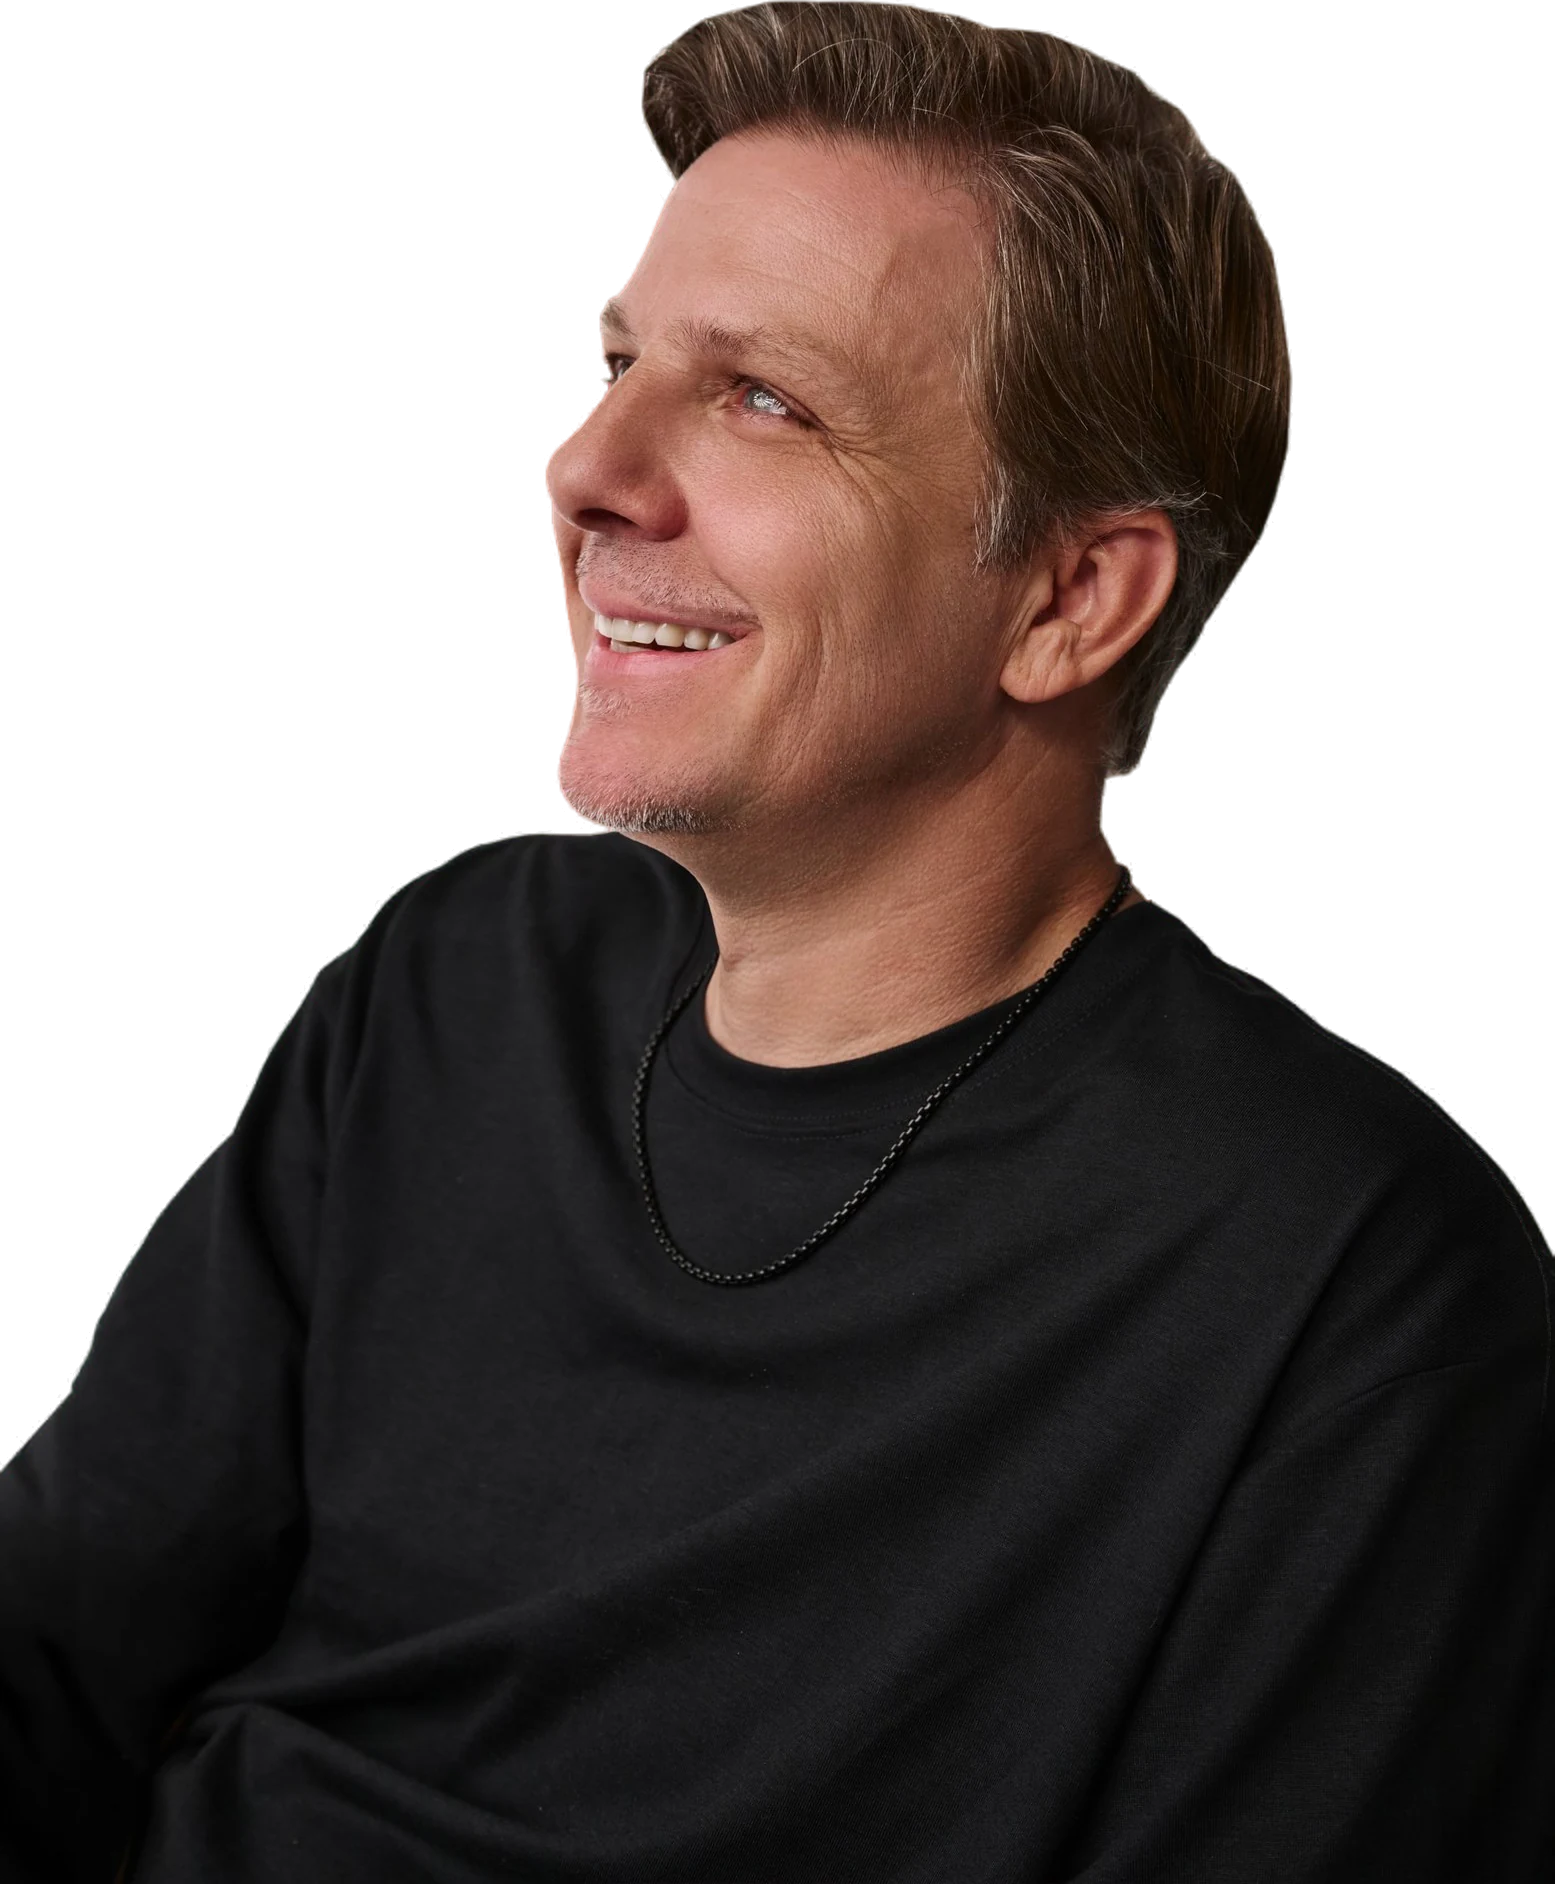
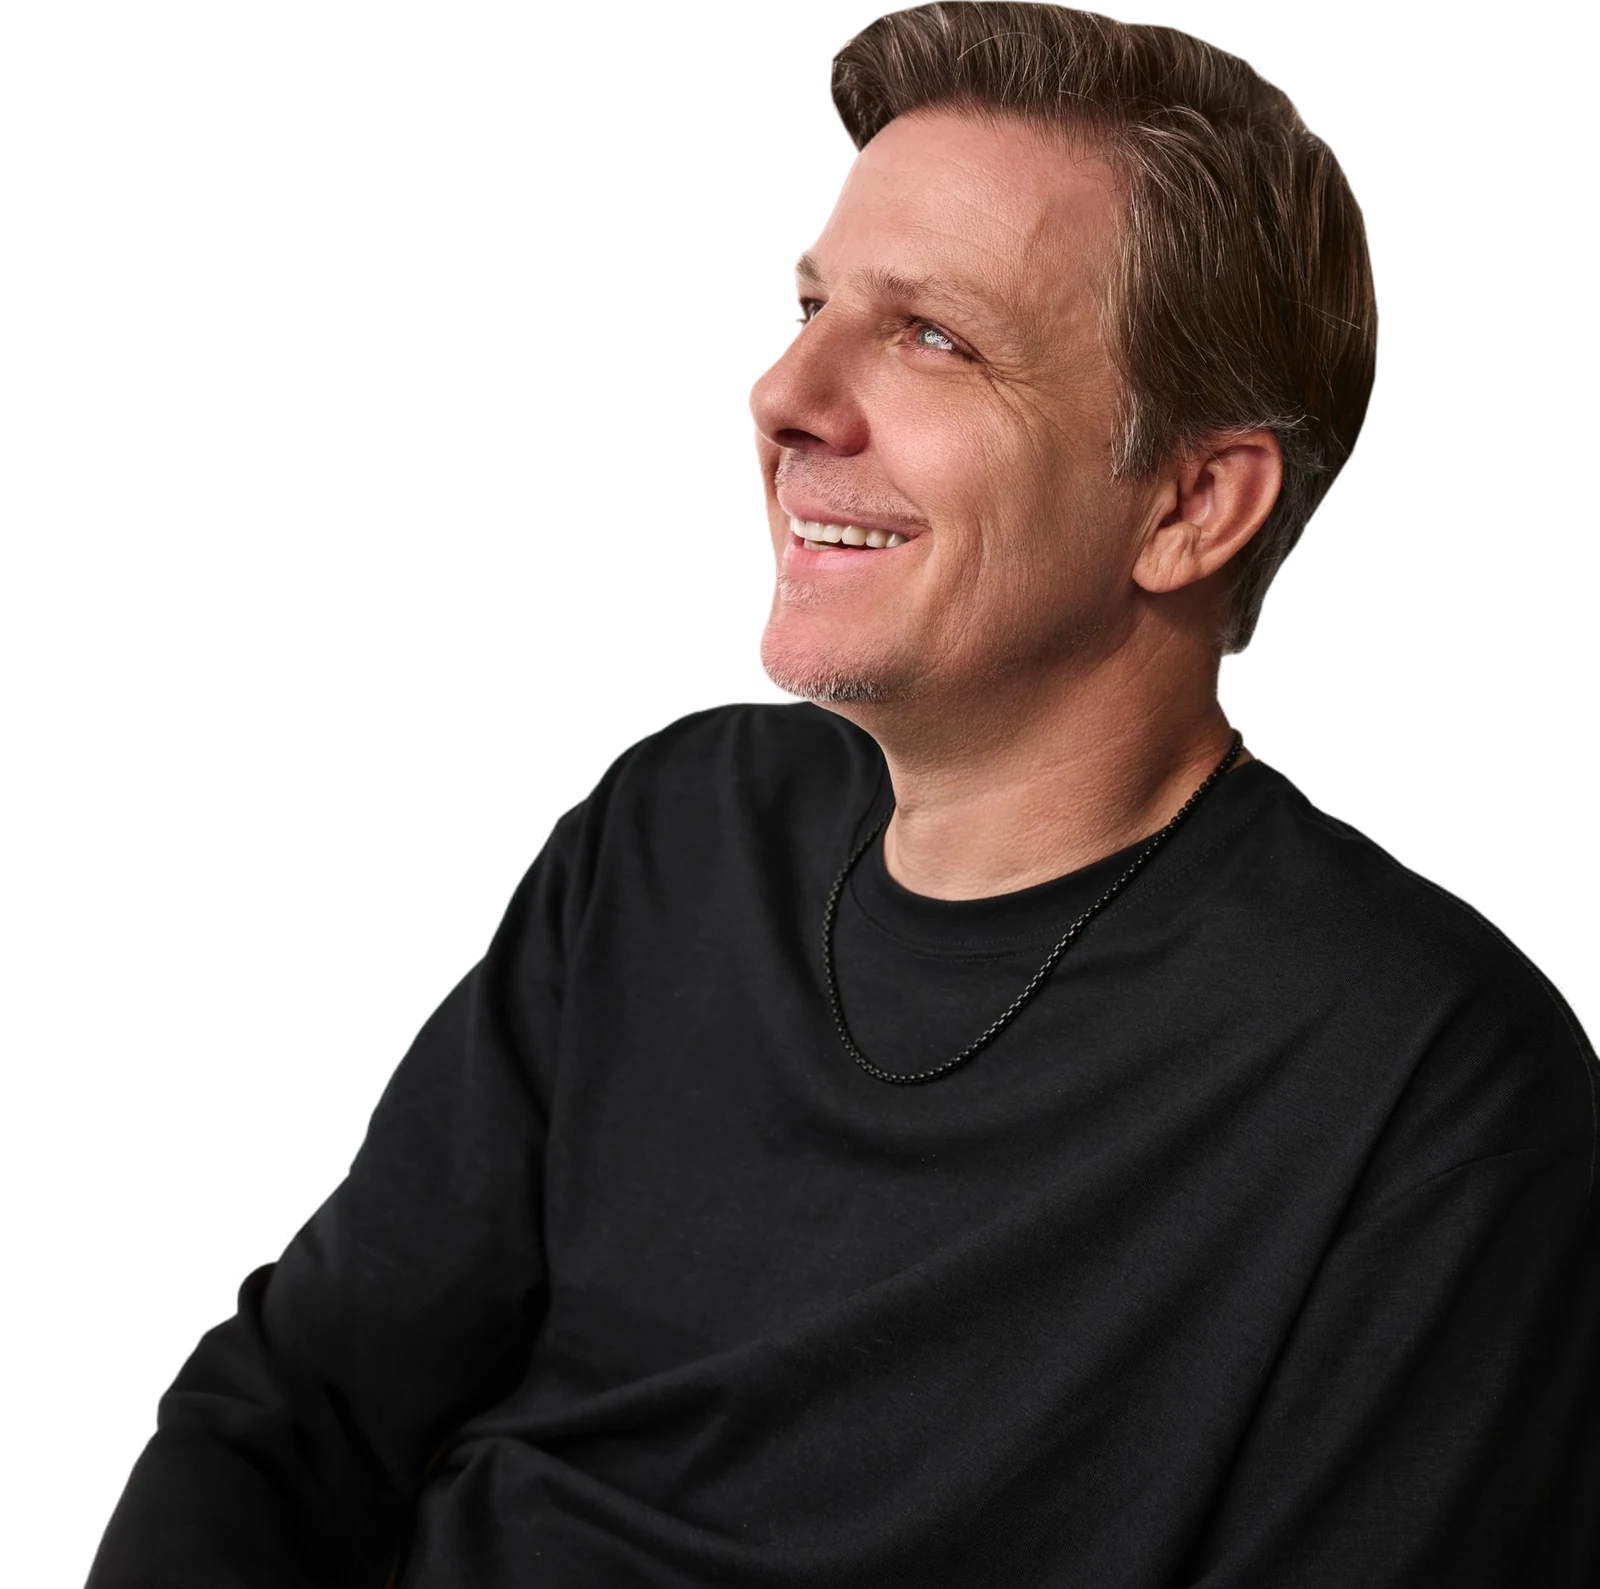
Tobias: extended smiling portrait in the Entertainment box
Claude-Session: https://claude.ai/code/session_012U18n2jx8i57thyH5Nwtnb

diff --git a/features/tobias-forrest/index.html b/features/tobias-forrest/index.html
@@ -308,7 +308,7 @@ footer p span{color:#f70909}
 
     <div class="wrap wide">
       <div class="pq il boxed">
-        <figure><span class="crop"><img loading="lazy" src="/features/tobias-forrest/img/lookup_c.webp" alt="Tobias Forrest smiling and looking up" style="object-position:50% 100%;transform-origin:50% 100%;transform:translate(520px, 0px) scale(1.05)"></span></figure>
+        <figure><span class="crop"><img loading="lazy" src="/features/tobias-forrest/img/lookup_c.webp" alt="Tobias Forrest smiling and looking up" style="object-position:50% 100%;transform-origin:50% 100%;transform:translate(470px, 135px) scale(1.25)"></span></figure>
         <div class="q" style="position:relative;top:0px;left:-525px"><blockquote class="long" style="text-wrap:balance">“Entertainment is advocacy. It is education. It is inspiration. It creates conversations around diversity, disability, inclusion, and awareness.”</blockquote><cite>Tobias Forrest</cite></div>
       </div>
     </div>

diff --git a/_build/feature-template/tobias-forrest-source.html b/_build/feature-template/tobias-forrest-source.html
@@ -301,7 +301,7 @@ footer p span{color:#f70909}
 
     <div class="wrap wide">
       <div class="pq il boxed">
-        <figure><span class="crop"><img src="{{lookup_c}}" alt="Tobias Forrest smiling and looking up" style="object-position:50% 100%;transform-origin:50% 100%;transform:translate(520px, 0px) scale(1.05)"></span></figure>
+        <figure><span class="crop"><img src="{{lookup_c}}" alt="Tobias Forrest smiling and looking up" style="object-position:50% 100%;transform-origin:50% 100%;transform:translate(470px, 135px) scale(1.25)"></span></figure>
         <div class="q" style="position:relative;top:0px;left:-525px"><blockquote class="long" style="text-wrap:balance">“Entertainment is advocacy. It is education. It is inspiration. It creates conversations around diversity, disability, inclusion, and awareness.”</blockquote><cite>Tobias Forrest</cite></div>
       </div>
     </div>
